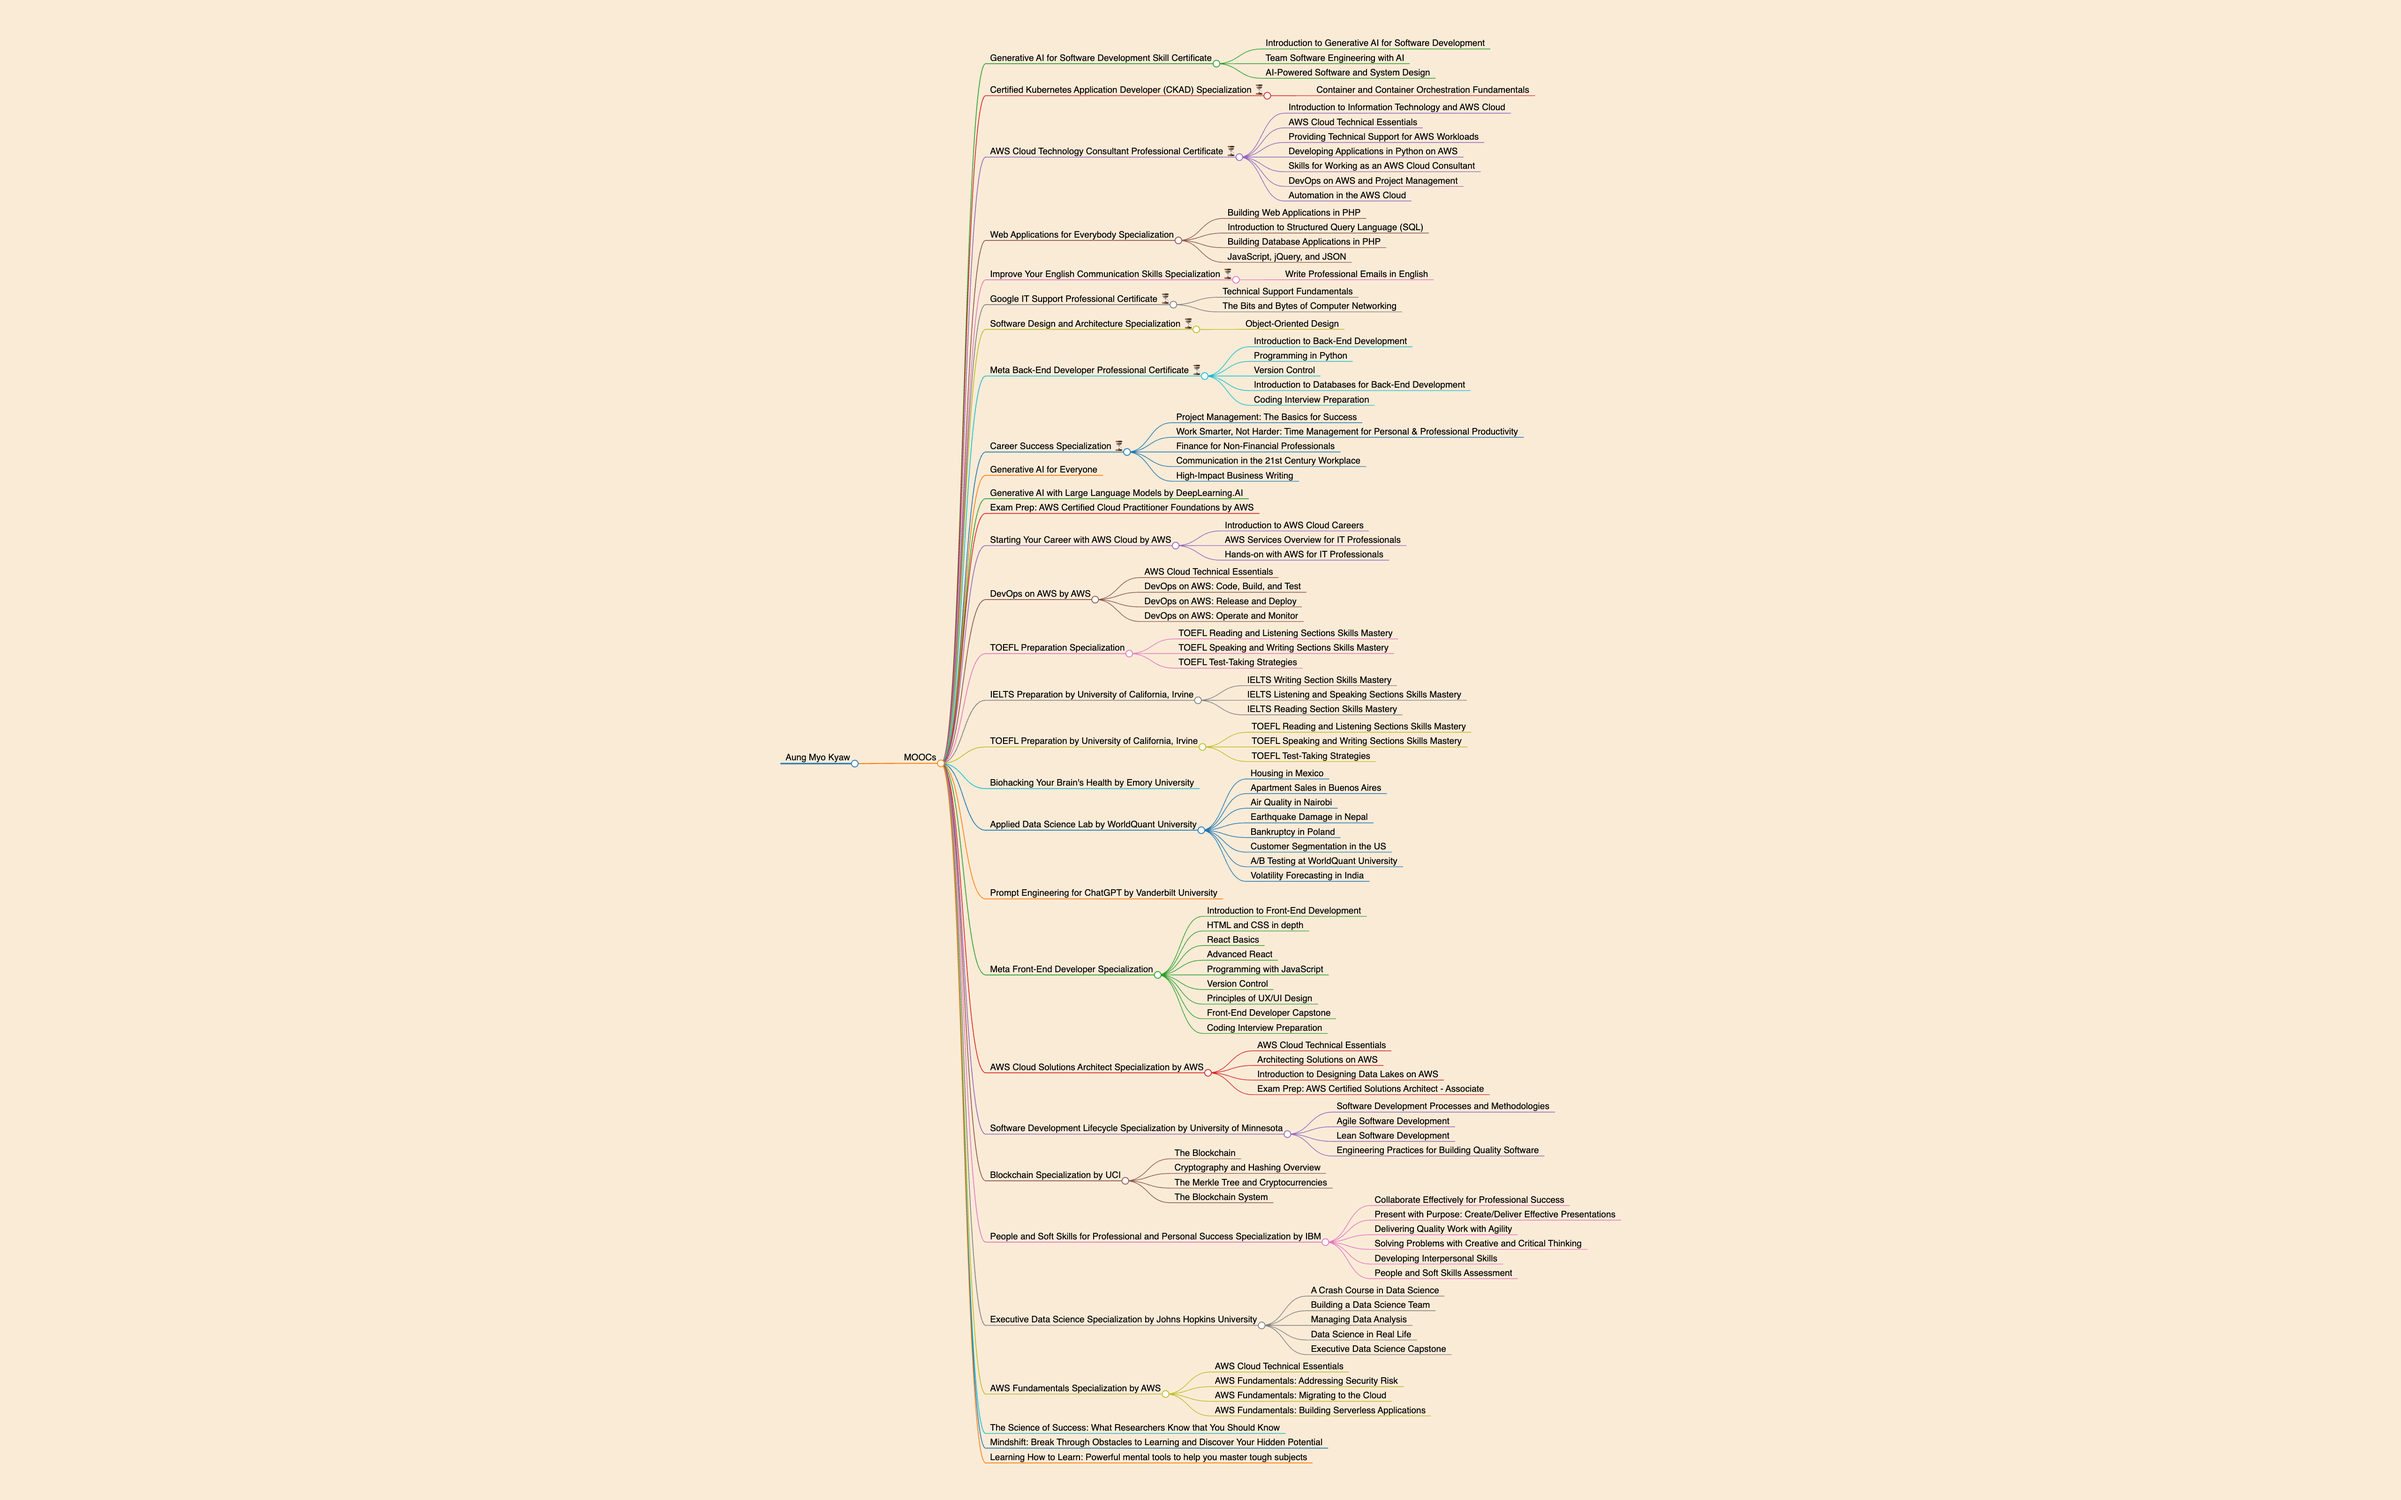
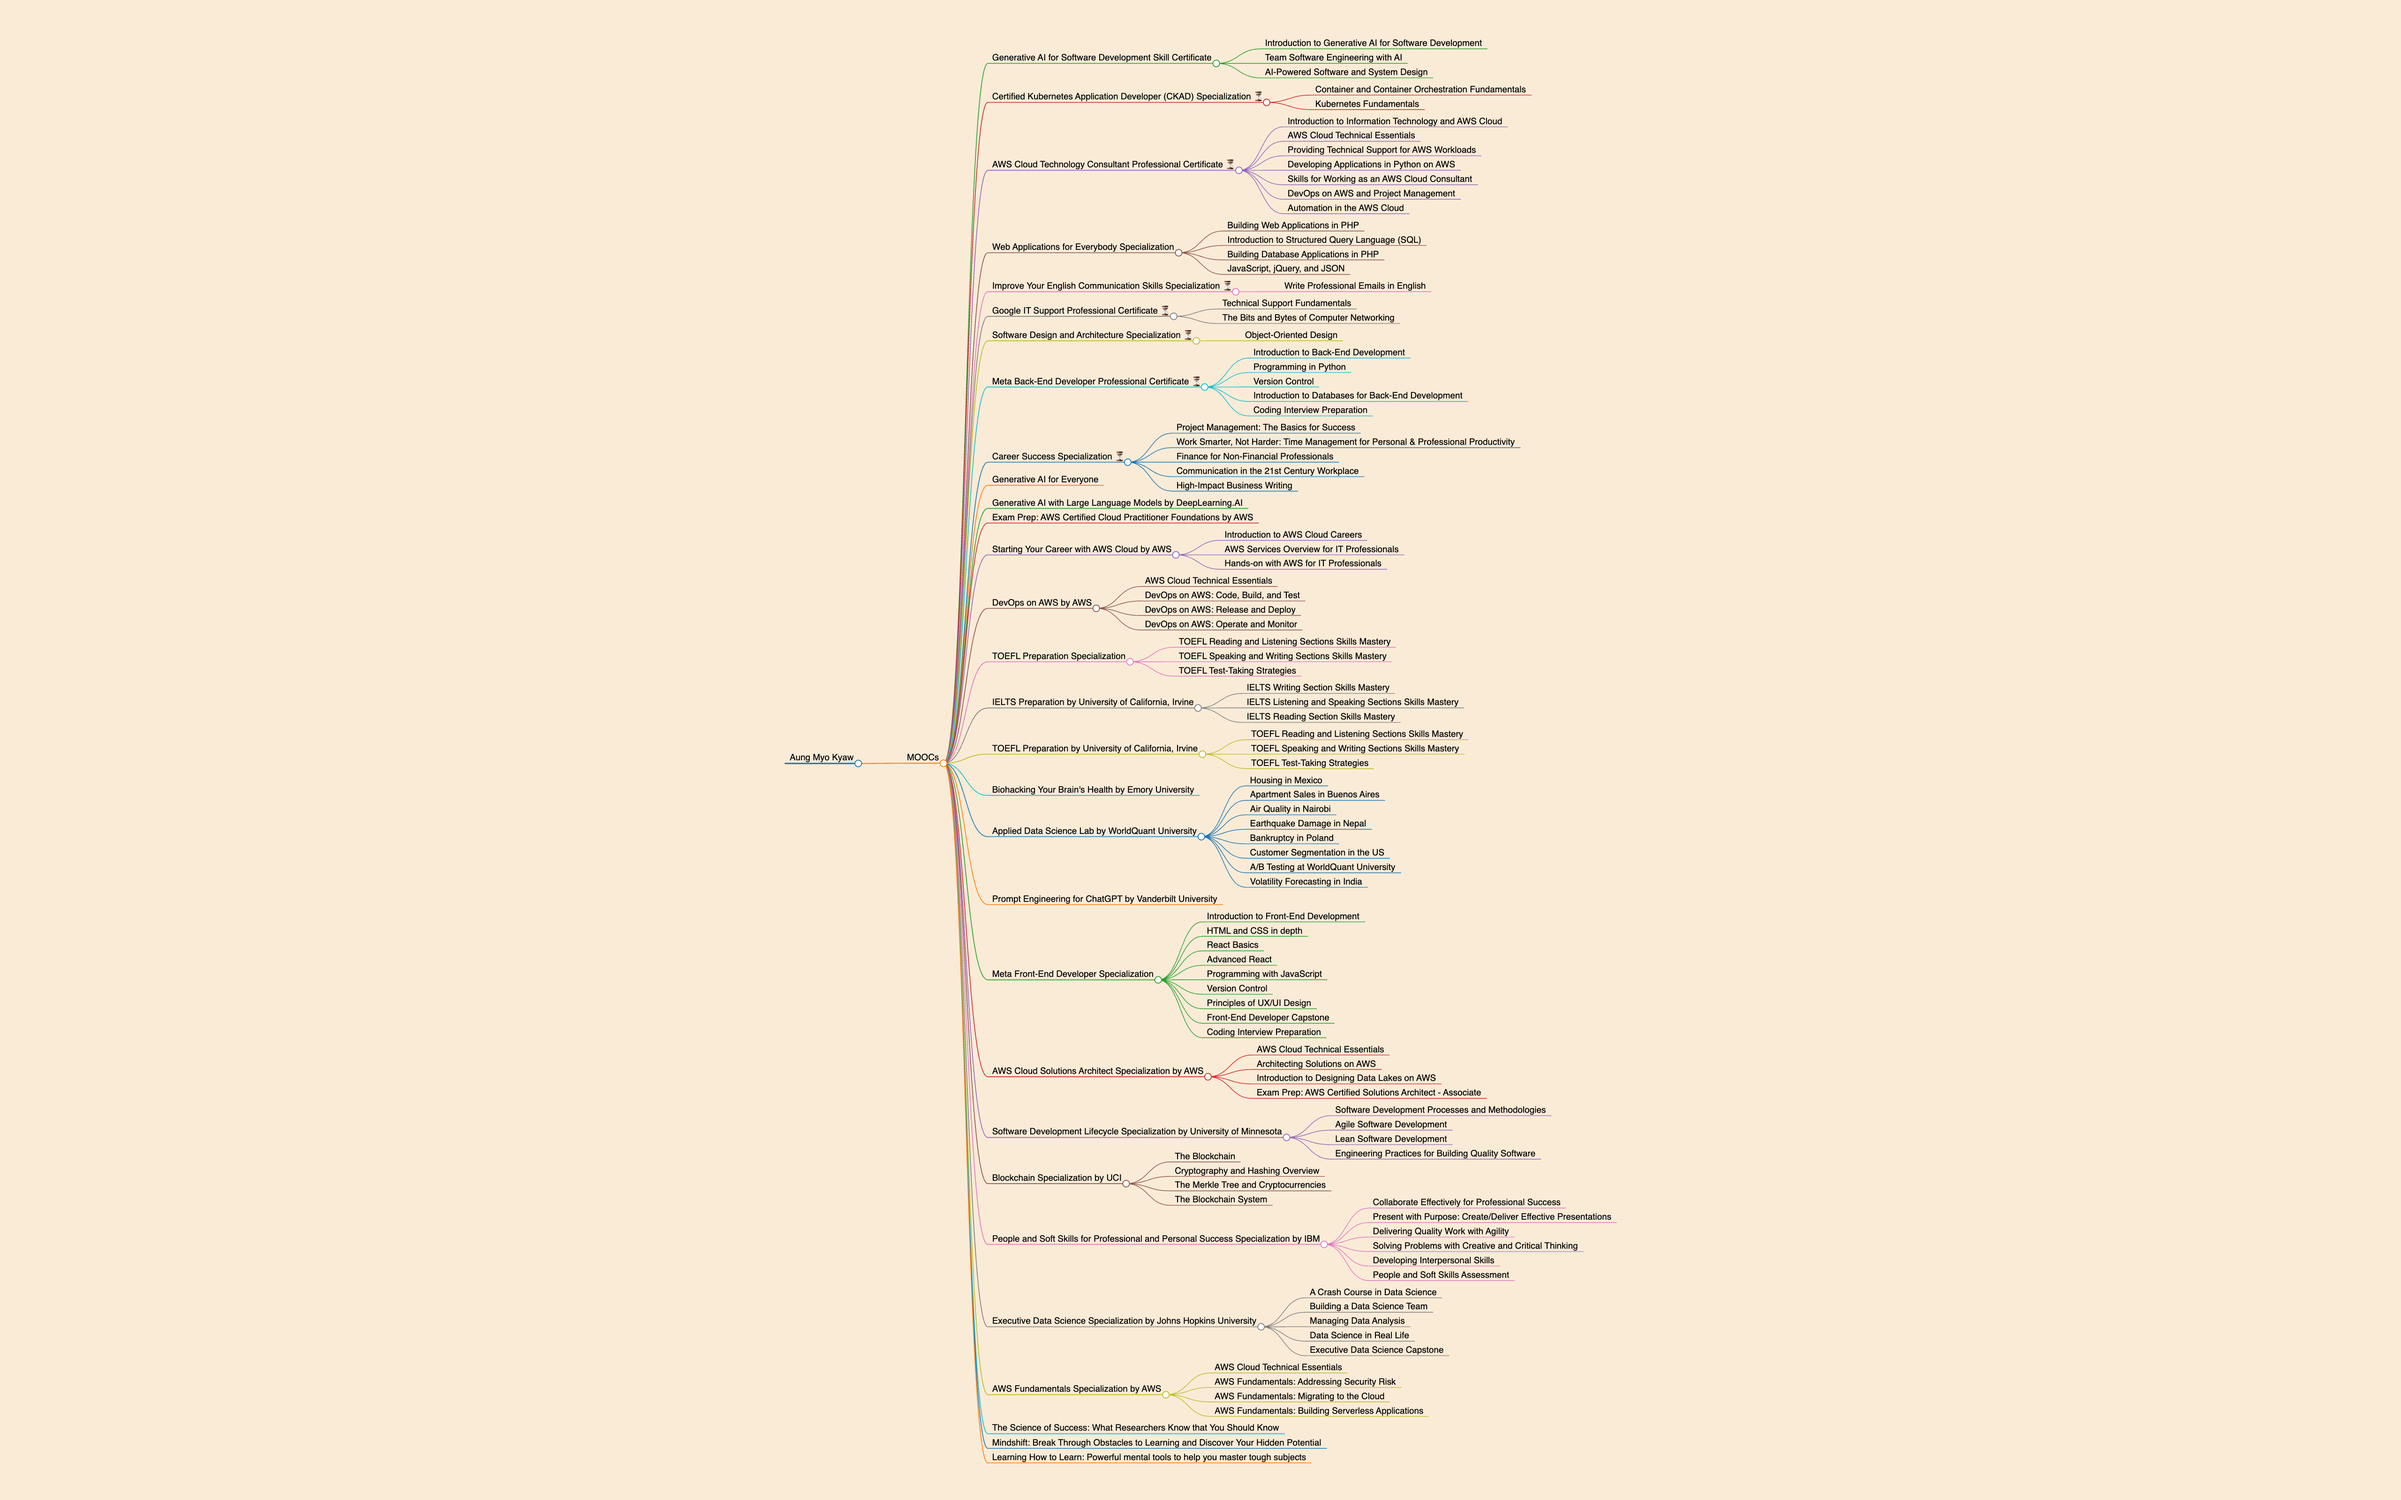
feat: update

Changed region(s): [[0.375, 0.0312, 0.6562, 0.9688]]

diff --git a/README.md b/README.md
@@ -32,6 +32,7 @@ markmap:
 ### [Certified Kubernetes Application Developer (CKAD) Specialization ⏳](#)
 
 - [Container and Container Orchestration Fundamentals](https://www.coursera.org/account/accomplishments/certificate/L1YMNJC4S9PF)
+- [Kubernetes Fundamentals](https://www.coursera.org/account/accomplishments/certificate/WJF1OUIXYUDQ)
 
 ### [AWS Cloud Technology Consultant Professional Certificate ⏳](#)
 
